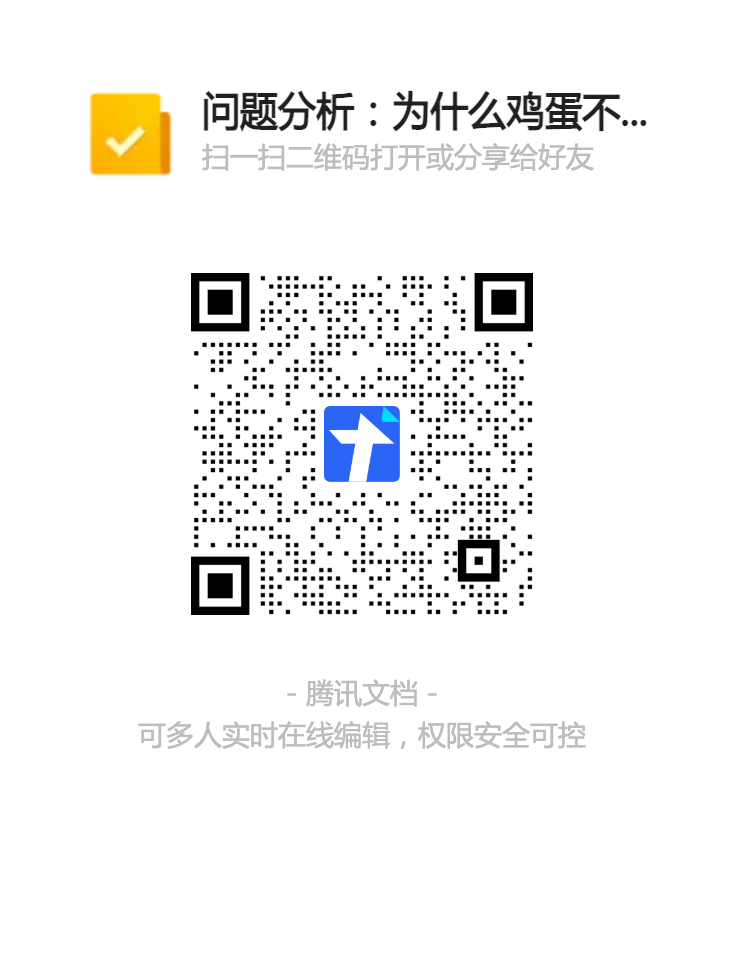
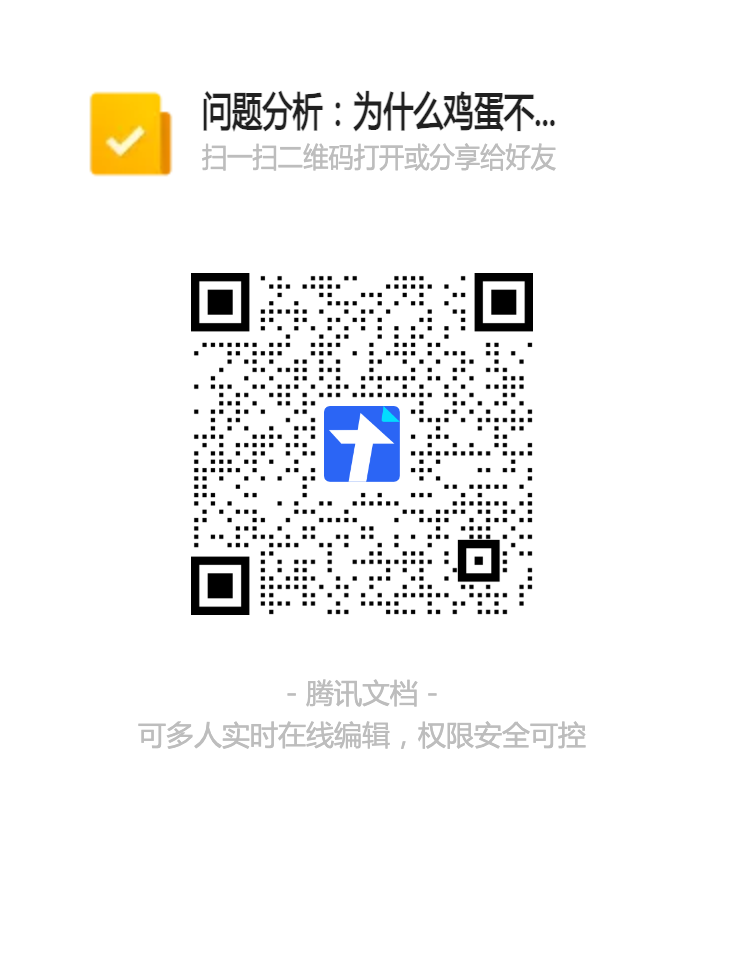
Problem1

diff --git a/blog/2023-09-16Problem1.md b/blog/2023-09-16Problem1.md
@@ -19,5 +19,7 @@ tags: [assignments]
 3.	如果上例中每只股票的收益率和方差各不相同，你觉得如何制定投资决策呢？
 4.	不同人对风险的偏好不同，如果考虑个人的风险偏好因素，如何写决策公式呢？
 
-## 提交答案：填写[在线表格](https://docs.qq.com/form/page/DYm9NVGVVSE12bVZB)，或扫码
+## 提交答案
+1. 填写 [在线表格](https://docs.qq.com/form/page/DYkljUFlNUFdWbHFQ)
+2. 或扫码
 ![Problem1-form](/img/tutorial/Problem1-form.png) 
